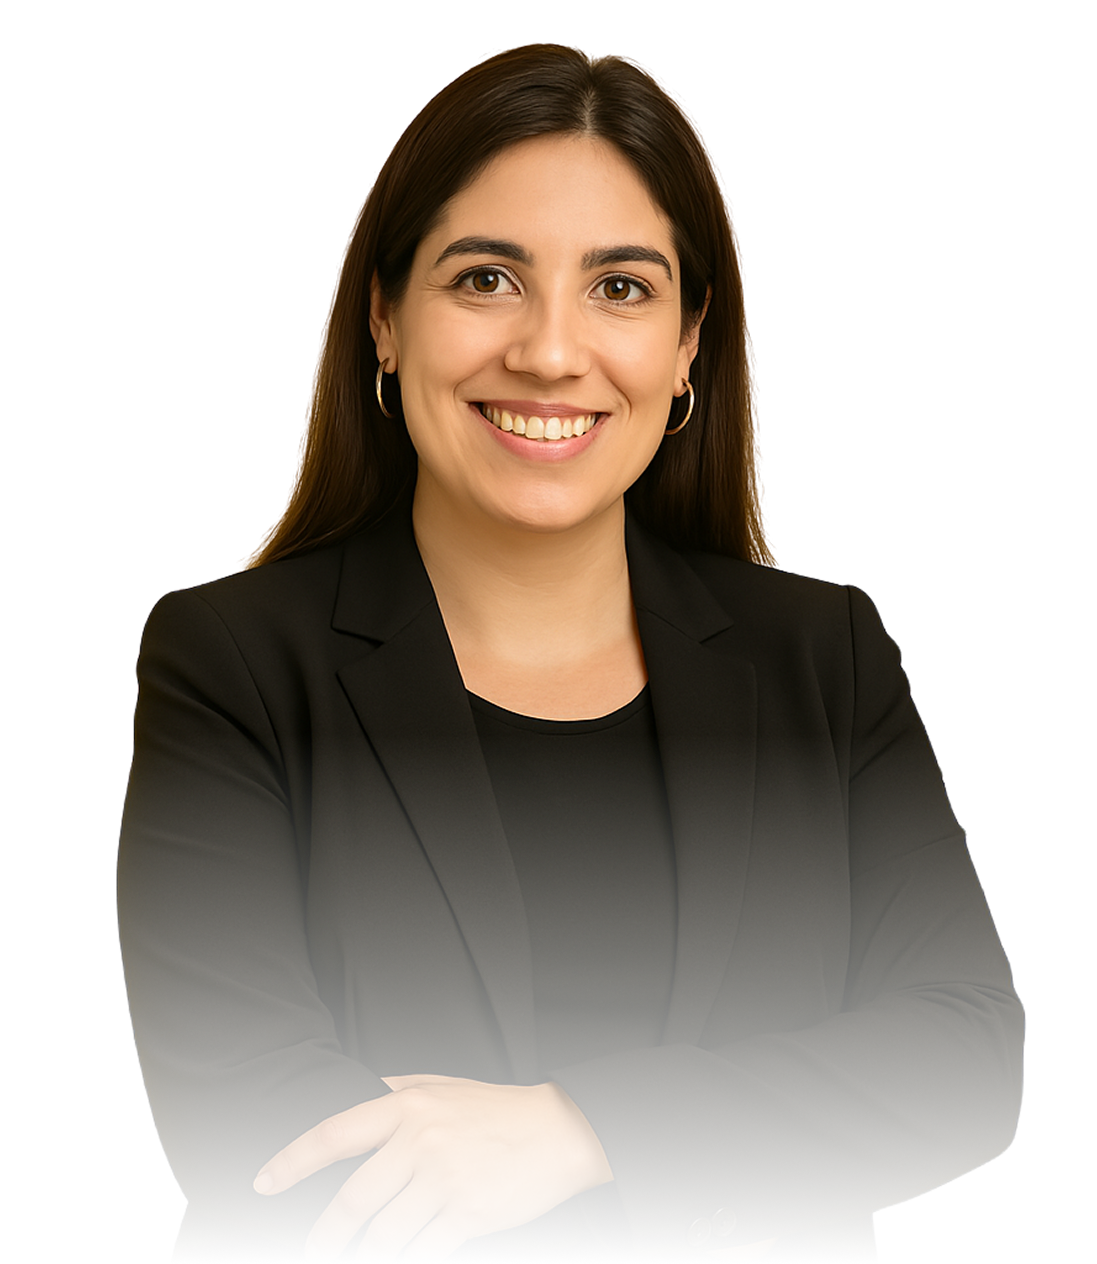
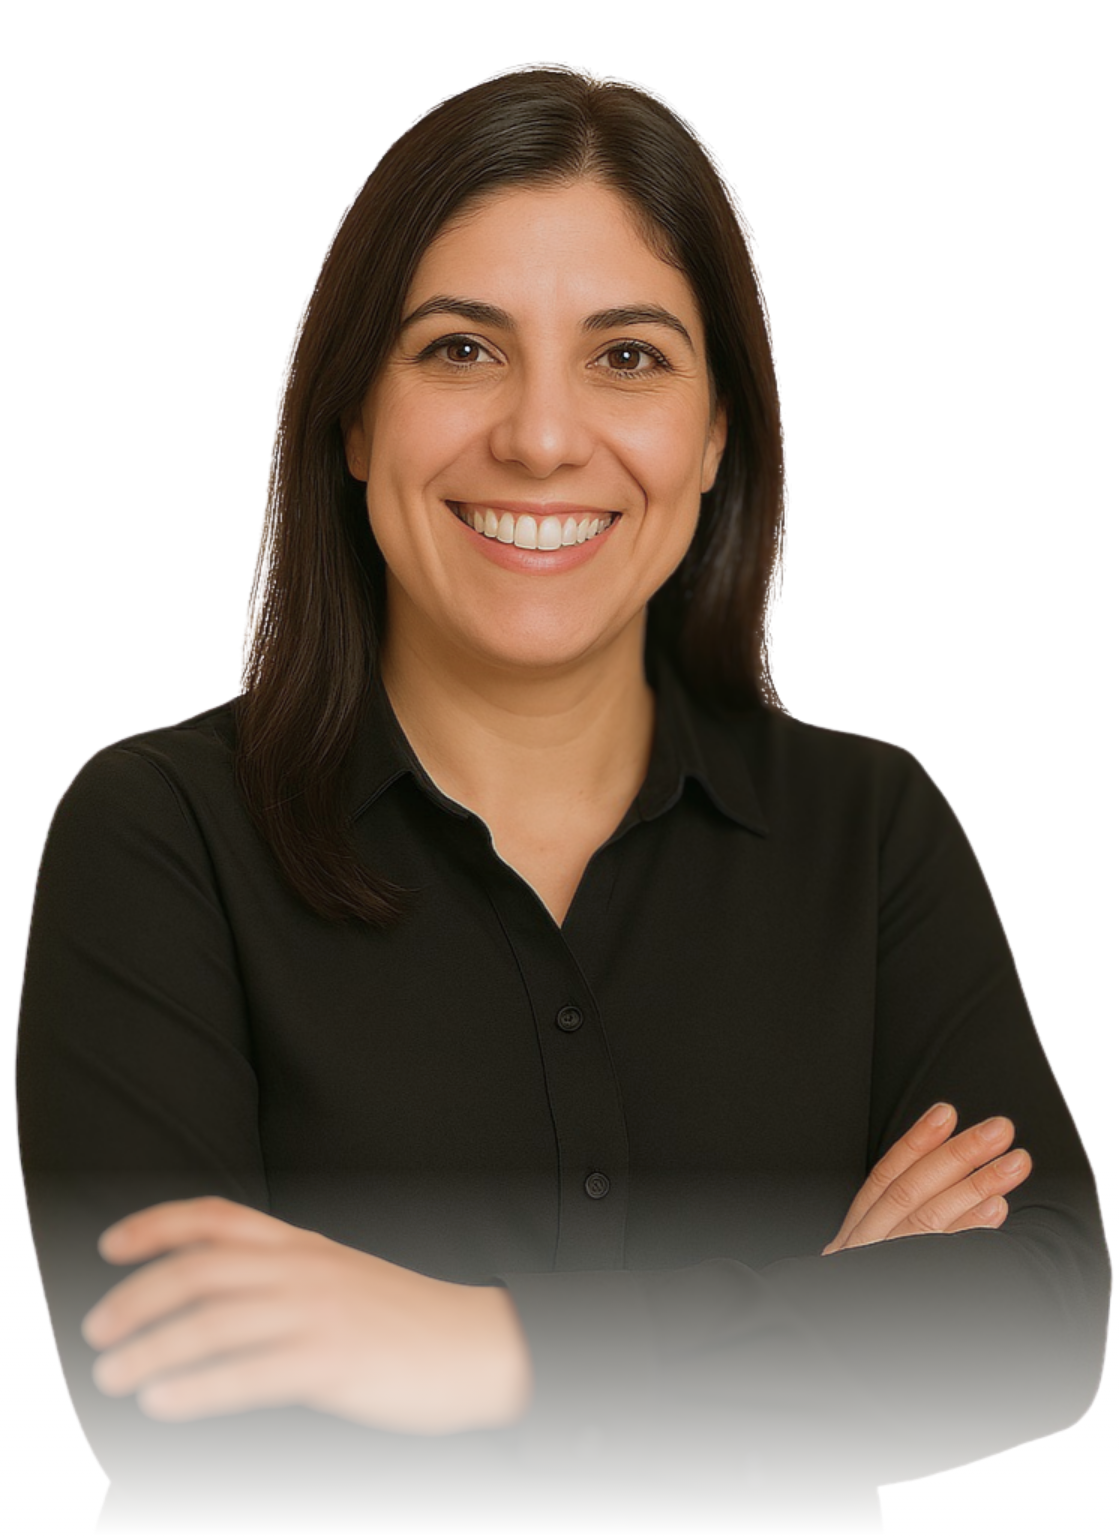
adding new images

diff --git a/src/components/Services.tsx b/src/components/Services.tsx
@@ -3,6 +3,7 @@ import {
   BanknoteArrowUp,
   Bot,
   Brush,
+  Globe,
   MessageCircleHeart,
   Presentation,
   SquareArrowOutUpRight,
@@ -43,6 +44,12 @@ const services = [
     description:
       "Para quem precisa de clareza e direcionamento estratégico para crescer com consistência e segurança.",
   },
+  {
+    icon: <Globe size={40} />,
+    title: "Criação de Sites Profissionais",
+    description:
+      "Tenha um site moderno, responsivo e otimizado para o Google. Transmita confiança, conquiste clientes e fortaleça sua presença digital com uma estrutura personalizada e estratégica para o seu negócio.",
+  },
 ];
 
 export function Services() {
@@ -53,7 +60,7 @@ export function Services() {
           <h2 className="text-2xl md:text-3xl font-semibold mb-8 text-left">
             <span className="font-light text-base">Como posso te ajudar? </span>
             <br />
-            <span className="font-bold">Conheça meus serviços</span>
+            <span className="font-bold">Conheça nossos serviços</span>
           </h2>
           <span>
             <a
@@ -91,12 +98,12 @@ export function Services() {
             </div>
           ))}
         </div>
-        <div className="mt-20 text-lg md:flex items-center gap-4">
-          <p className="flex-1 mb-4 flex gap-4 items-center text-xl justify-center">
+        <div className="mt-20 text-3xl md:flex items-center gap-4">
+          <p className="flex-1 mb-4 flex gap-4 items-center justify-center">
             <Users size={55} className="text-gray-500" />
             <span>+30 clientes atendidos</span>
           </p>
-          <p className="flex-1 mb-4 flex gap-4 items-center text-xl justify-center">
+          <p className="flex-1 mb-4 flex gap-4 items-center justify-center">
             <TrendingUp size={55} className="text-gray-500" />
             <span>+1000 designs criados</span>
           </p>
@@ -106,16 +113,19 @@ export function Services() {
           </p> */}
         </div>
 
-        <div className="mt-20 text-lg md:flex items-center gap-10">
-          <p className="flex-1 mb-4 flex gap-4 items-center text-xl justify-end font-semibold text-right">
-            Está pronto para evoluir sua presença digital com quem entende do
-            assunto?
+        <div className="mt-20 text-lg md:flex flex-col items-center gap-4">
+          <p className="flex-1 mb-4 flex gap-8 items-center text-xl justify-end font-semibold text-right">
+            Está pronto para evoluir sua <br />
+            presença digital com quem <br />
+            entende do assunto?
+            <span className="text-lg text-black">
+              <CTAButton />
+            </span>
           </p>
           <p className="flex-1 mb-4 flex flex-col gap-4 items-left justify-baseline">
-            <CTAButton />
             <span className="text-sm text-gray-300 text-left">
-              Agende agora sua consultoria gratuita e receba um plano de ação
-              exclusivo com estratégias reais para o seu negócio.
+              Agende agora sua consultoria gratuita e receba um plano <br />
+              de ação exclusivo com estratégias reais para o seu negócio.
             </span>
           </p>
         </div>

diff --git a/src/components/Bio.tsx b/src/components/Bio.tsx
@@ -4,13 +4,15 @@ export function Bio() {
   return (
     <section className="py-16 px-6 md:px-12 bg-white">
       <div className="max-w-6xl mx-auto grid md:grid-cols-2 items-center gap-10">
-        <Image
-          src="/anelita-foto.jpg" // Salve a imagem como /public/anelita-foto.jpg
-          alt="Anelita"
-          width={300}
-          height={300}
-          className="rounded-lg bg-gray-200"
-        />
+        <div className="flex justify-end items-baseline h-full">
+          <Image
+            src="/photo-bio.jpg"
+            alt="Foto de rosto da Anelita"
+            width={400}
+            height={400}
+            className="rounded-lg bg-gray-200"
+          />
+        </div>
         <div>
           <h2 className="text-2xl font-bold mb-4">Quem sou eu?</h2>
           <p className="text-gray-700 mb-4">
@@ -33,7 +35,7 @@ export function Bio() {
           <p className="text-gray-700 mb-4">
             Hoje, à frente da ASM Marketing Digital, lidero uma equipe
             qualificada e ofereço soluções completas em conteúdo, tráfego pago,
-            automação, design e consultorias personalizadas.
+            automação, design, criação de sites e consultorias personalizadas.
           </p>
           <p className="text-gray-700 mb-4">
             Meu propósito é impulsionar marcas e pessoas por meio da comunicação

diff --git a/src/components/Hero.tsx b/src/components/Hero.tsx
@@ -17,7 +17,7 @@ export function Hero() {
               height={200}
             />
             <h1 className="text-3xl md:text-4xl font-extrabold mb-4">
-              Você sente que sua presença digital poderia estar gerando mais
+              Você sente que sua presença no digital poderia estar gerando mais
               resultados?
             </h1>
             <p>
@@ -37,8 +37,8 @@ export function Hero() {
           <Image
             src="/hero-person.png"
             alt="Anelita Massucate"
-            width={500}
-            height={500}
+            width={400}
+            height={400}
           />
           <p className="text-sm text-gray-700 mx-2 py-4 pl-14">
             Anelita Massucate - Marketing Digital Estratégico
